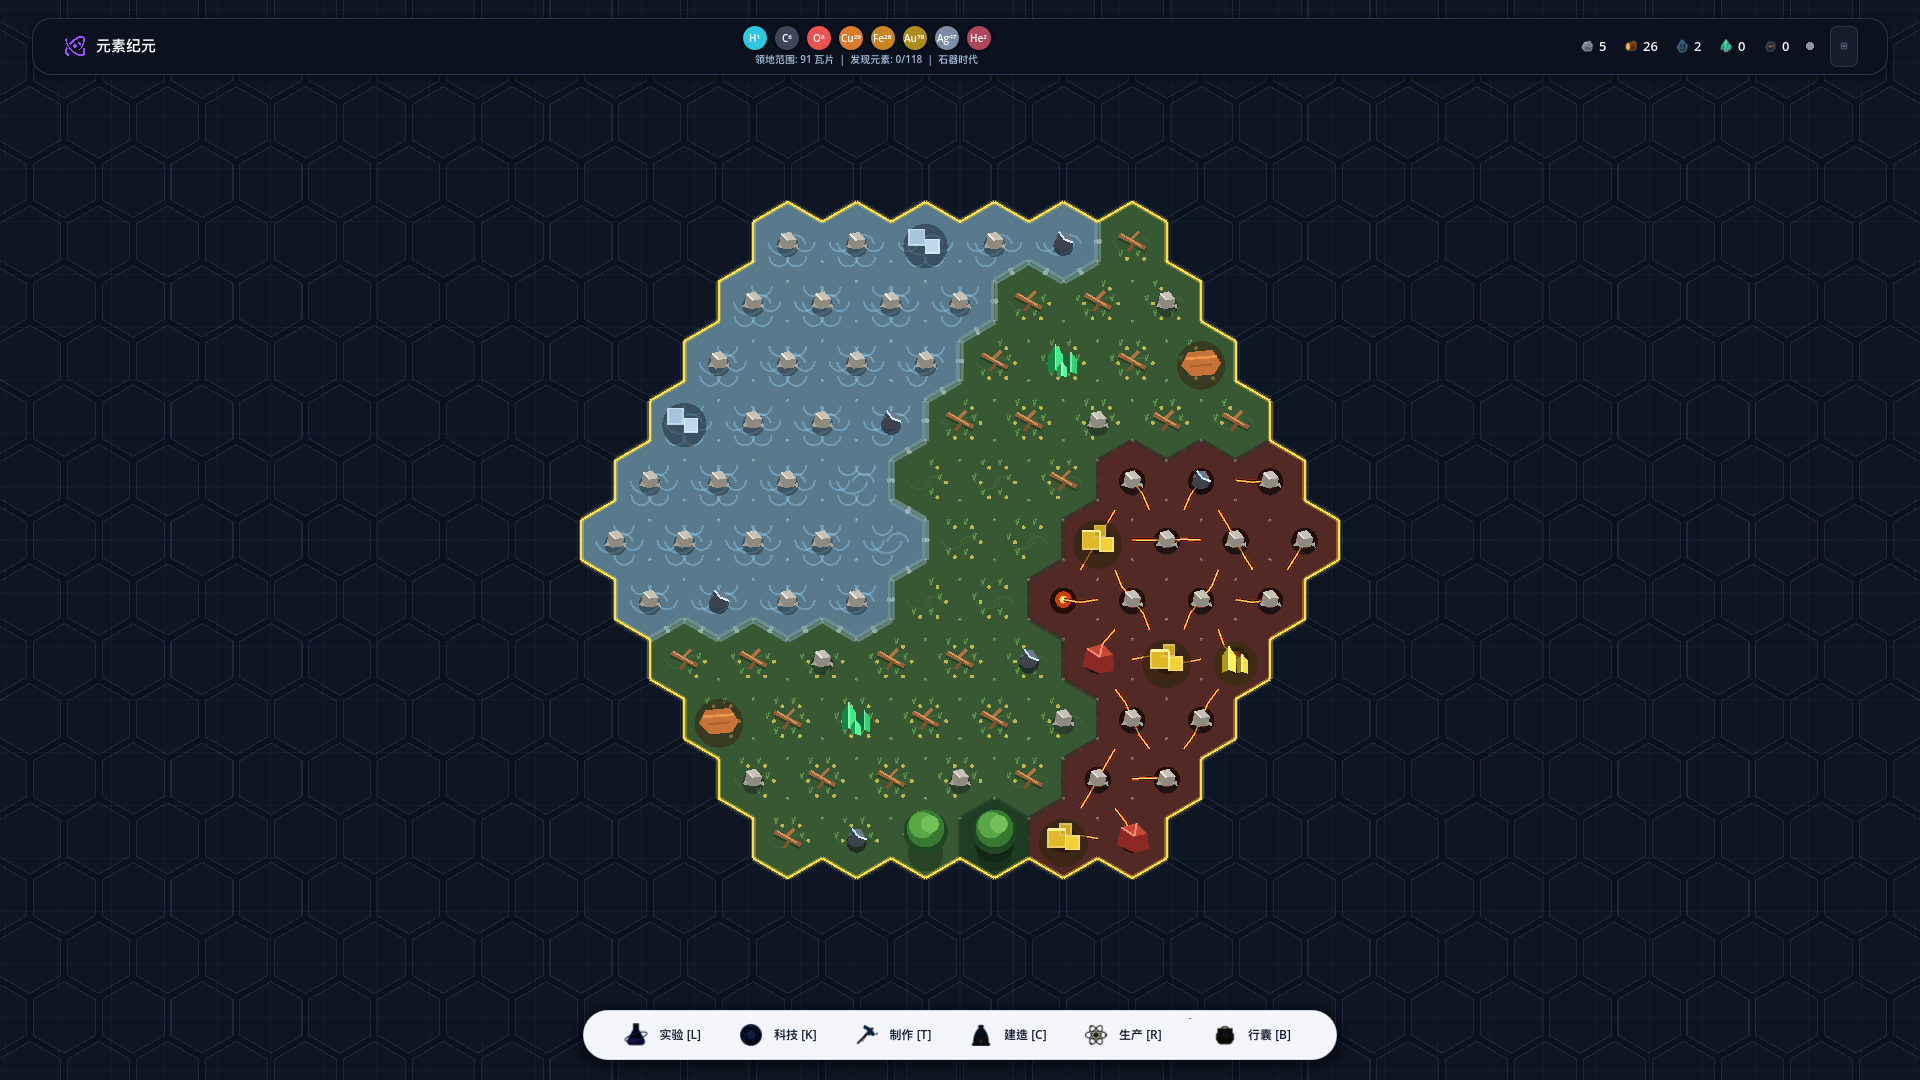
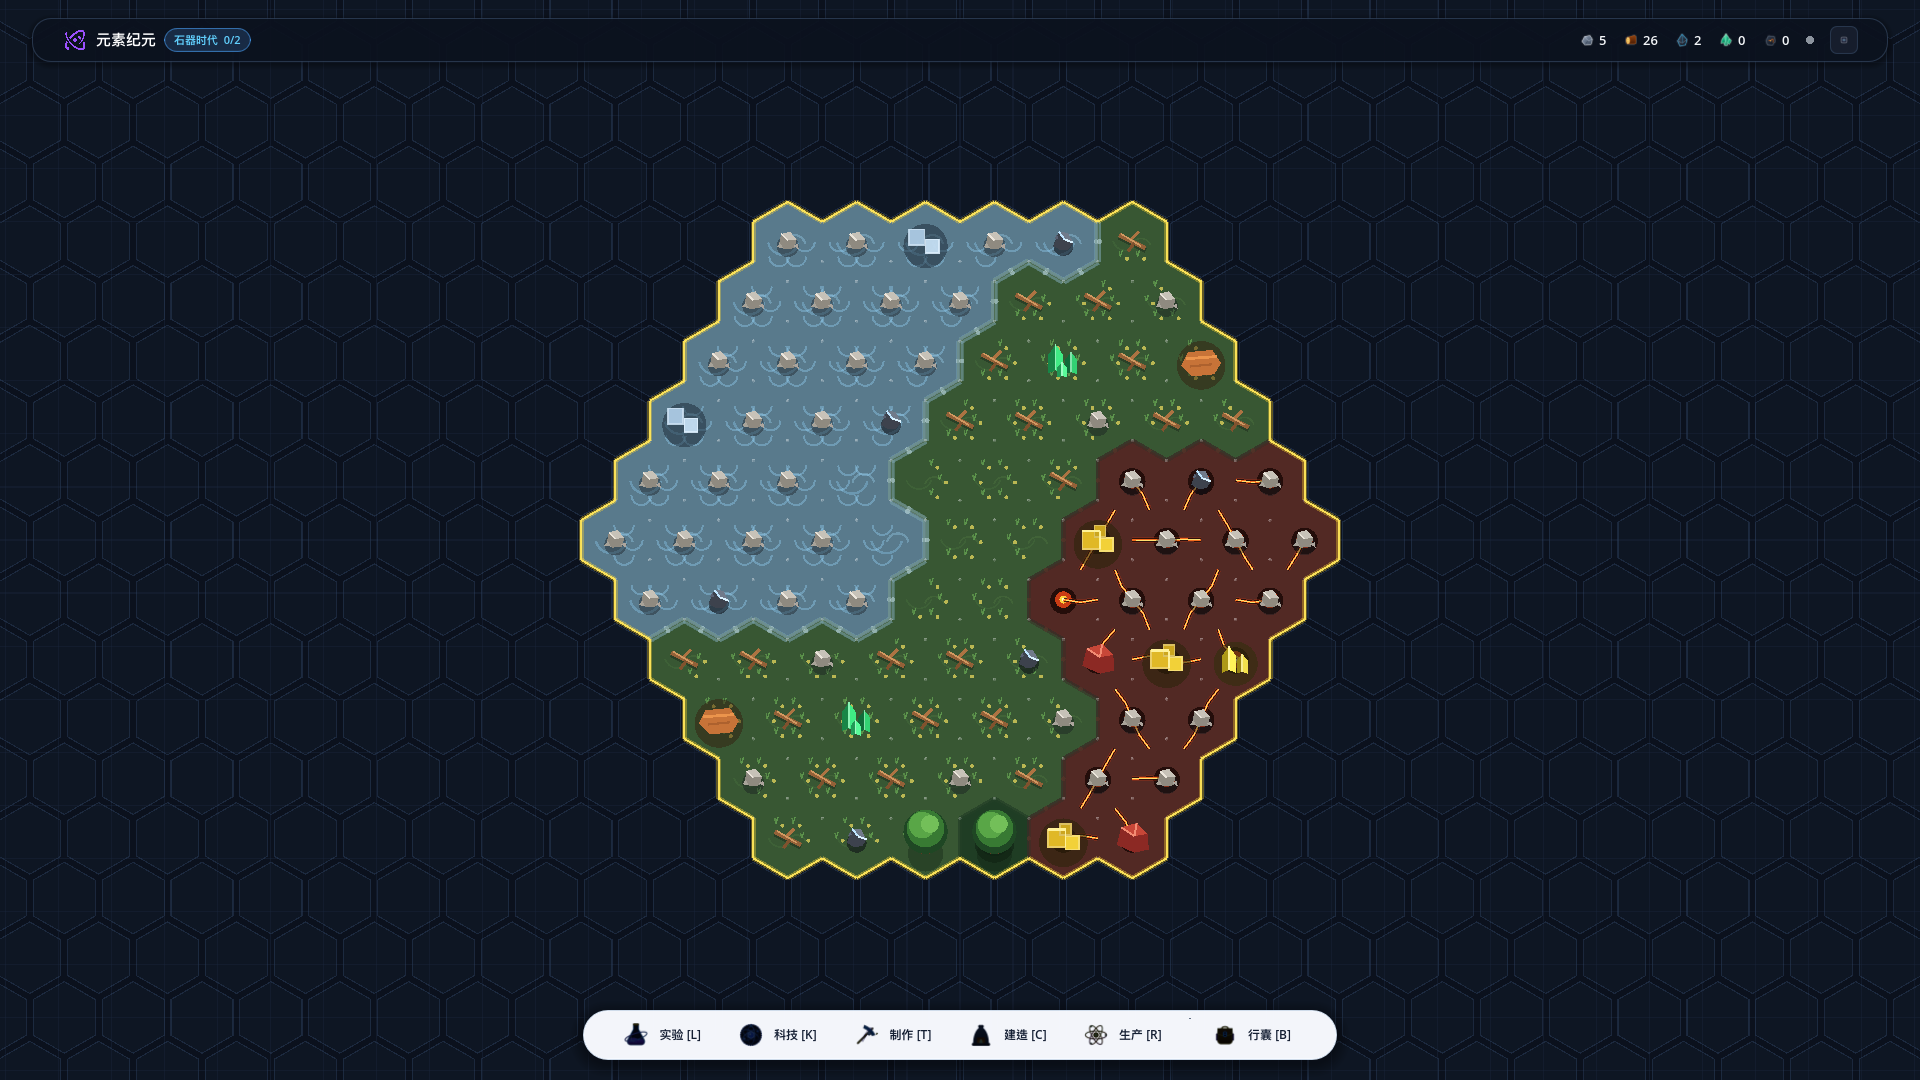
feat(ui): remove redundant center elements from top bar and add interactive era progress capsule on left

Changed region(s): [[0.375, 0.0, 0.5312, 0.0611], [0.8125, 0.0306, 0.9688, 0.0611], [0.0312, 0.0, 0.1562, 0.0611]]

diff --git a/AGENTS.md b/AGENTS.md
@@ -480,6 +480,23 @@
      `领地范围: %d 瓦片  |  发现元素: %d/118  |  石器时代`；
    - 过滤时代名称中的英文后缀（自动去除 `(Stone Age)` 等副标题），保持界面高度纯净、一致与专业。
 
+### 2.21 顶栏中间区域净化与 Web 范式左侧时代胶囊交互重构 (2026-10-05)
+
+根据用户关于「顶部中间部分好像没啥用？」的反馈，彻底清除了早期 UI 方案三残留的非功能性硬编码装饰物，参考 Web 原版重构了极简通透与真正实用的时代交互机制：
+
+1. **彻底移除中间无用装饰与假元素圆圈 (`src/ui/hud.tscn`, `src/ui/hud.gd`)**：
+   - 全面删除了原顶栏中间区域硬编码的 8 枚彩色假元素圆圈徽章（`BadgesRow`）及挤占空间的次要遥测文本（`CenterBox` / `TelemetryLabel`）；
+   - 中间区域替换为全展开透明占位弹性空间（`Spacer`），让顶栏视觉中央完全留白，大世界六边形地图在顶部视口获得最大纵深通透呼吸感。
+
+2. **左侧新增「时代进度胶囊按钮」(`EraBadgeBtn`)**：
+   - 参考 Web 版（`Header.vue`）优秀设计规范，在左侧官方 Logo 与【元素纪元】标题旁紧邻挂载时代胶囊按钮（如 `[🏛 石器时代 0/2]`）；
+   - 胶囊采用圆角扁平科技灰蓝底（`#1F3859` 65% 透明度）与亮青色细边框（`#408CD9`），鼠标悬停高亮；
+   - **动态实时进度**：自动跟随 `GameState` 统计当前时代里程碑（如完成石镐与火种为 `2/2`）；
+   - **富文本鼠标悬停 Tooltip**：悬停即刻浮现当前纪元背景简介、领地范围、已发现元素进度及每一项具体里程碑达成状态清单。
+
+3. **点击呼出完整时代进程面板 (`src/ui/era_transition_modal.gd`)**：
+   - 扩展时代弹窗新增 `show_current_era_status()`：点击左侧时代胶囊即可随时呼出当前时代目标总览与里程碑详单，按 `ESC`、空格或点击即可无缝收起，极大增强了游戏时代演进的主线目标感。
+
 ---
 
 ## 3. 架构设计规范与数据流动
